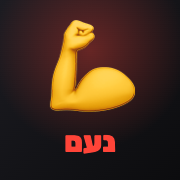
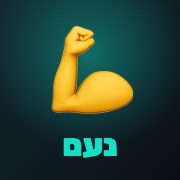
גרסה 3.0 — עיצוב טורקיז מלא לפי בקשת נעם

diff --git a/index.html b/index.html
@@ -5,7 +5,7 @@
 <meta name="viewport" content="width=device-width, initial-scale=1, viewport-fit=cover, user-scalable=no">
 <meta name="apple-mobile-web-app-capable" content="yes">
 <meta name="apple-mobile-web-app-status-bar-style" content="black-translucent">
-<meta name="theme-color" content="#0c0c0e">
+<meta name="theme-color" content="#0a0f16">
 <title>האימון של נעם</title>
 <link rel="manifest" href="manifest.json">
 <link rel="apple-touch-icon" href="icon-180.png">
@@ -16,9 +16,10 @@
 <noscript><link href="https://fonts.googleapis.com/css2?family=Rubik:wght@400;500;600;700;800;900&display=swap" rel="stylesheet"></noscript>
 <style>
 :root{
-  --bg:#0c0c0e; --card:#17171a; --card2:#1e1e23; --line:#2a2a30;
-  --txt:#f2f0ec; --dim:#8e8e96; --ghost:#5c5c64;
-  --red:#ff4438; --red-deep:#c8271c; --green:#3ddc84; --gold:#ffc93c; --purple:#b07cff; --blue:#4da3ff;
+  --bg:#0a0f16; --card:#101826; --card2:#16202f; --line:#233144;
+  --txt:#eef5f7; --dim:#8fa5b8; --ghost:#5a7186;
+  --acc:#14e0c8; --acc-deep:#0aa091; --acc-glow:rgba(20,224,200,.35);
+  --red:#ff5252; --red-deep:#d32f2f; --green:#3ddc84; --gold:#ffc93c; --purple:#b07cff; --blue:#4da3ff;
   --radius:18px;
 }
 *{margin:0;padding:0;box-sizing:border-box;-webkit-tap-highlight-color:transparent}
@@ -28,8 +29,8 @@ body{
   font-family:'Rubik',-apple-system,'Segoe UI',sans-serif;
   min-height:100vh; overscroll-behavior-y:contain;
   background-image:
-    radial-gradient(1100px 480px at 85% -180px, rgba(255,68,56,.12), transparent 60%),
-    radial-gradient(800px 400px at -10% 15%, rgba(77,163,255,.05), transparent 60%);
+    radial-gradient(1100px 480px at 85% -180px, rgba(20,224,200,.13), transparent 60%),
+    radial-gradient(900px 500px at -10% 20%, rgba(59,130,246,.09), transparent 60%);
   -webkit-font-smoothing:antialiased;
   user-select:none; -webkit-user-select:none;
 }
@@ -46,7 +47,7 @@ input,select{font-family:inherit}
 /* ===== בית ===== */
 .brand{display:flex; align-items:center; justify-content:space-between; margin-bottom:2px}
 .brand h1{font-size:1.85rem; font-weight:900; letter-spacing:-.5px}
-.brand h1 em{font-style:normal; background:linear-gradient(120deg,#ff6b54,var(--red)); -webkit-background-clip:text; background-clip:text; -webkit-text-fill-color:transparent}
+.brand h1 em{font-style:normal; background:linear-gradient(120deg,#4de8d6,var(--acc) 45%,#38bdf8); -webkit-background-clip:text; background-clip:text; -webkit-text-fill-color:transparent}
 .brand .gear{font-size:1.4rem; padding:8px; opacity:.85}
 .subhead{display:flex; justify-content:space-between; align-items:center; margin-bottom:16px}
 .today-date{color:var(--dim); font-size:.92rem}
@@ -57,21 +58,21 @@ input,select{font-family:inherit}
 #sync-chip.off{color:var(--ghost)}
 
 .hero{
-  background:linear-gradient(150deg,#221a19 0%,#1c1c20 35%,#131316 100%);
-  border:1px solid rgba(255,68,56,.22); border-radius:22px;
+  background:linear-gradient(150deg,#122a2e 0%,#12202e 40%,#0e1622 100%);
+  border:1px solid rgba(20,224,200,.28); border-radius:22px;
   padding:20px; margin-bottom:14px; position:relative; overflow:hidden;
-  box-shadow:0 10px 34px rgba(0,0,0,.35);
+  box-shadow:0 10px 34px rgba(0,0,0,.4);
 }
-.hero::before{content:""; position:absolute; inset-inline-start:-50px; top:-60px; width:220px; height:220px;
-  background:radial-gradient(circle, rgba(255,68,56,.22), transparent 70%);}
+.hero::before{content:""; position:absolute; inset-inline-start:-50px; top:-60px; width:240px; height:240px;
+  background:radial-gradient(circle, rgba(20,224,200,.22), transparent 70%);}
 .hero .label{color:var(--dim); font-size:.85rem; font-weight:500; margin-bottom:6px}
 .hero .wname{font-size:1.45rem; font-weight:800; margin-bottom:3px}
 .hero .wmeta{color:var(--dim); font-size:.88rem; margin-bottom:16px}
 .btn-main{
   display:block; width:100%; text-align:center;
-  background:linear-gradient(180deg,var(--red),var(--red-deep));
-  border-radius:14px; padding:16px; font-size:1.12rem; font-weight:800; color:#fff;
-  box-shadow:0 6px 20px rgba(255,68,56,.35); transition:transform .1s;
+  background:linear-gradient(135deg,#2ee8d2,var(--acc) 50%,#0fb9d8);
+  border-radius:14px; padding:16px; font-size:1.12rem; font-weight:800; color:#04201c;
+  box-shadow:0 6px 22px var(--acc-glow); transition:transform .1s;
 }
 .btn-main:active{transform:scale(.97)}
 .alt-workouts{display:flex; gap:8px; margin-top:10px}
@@ -85,7 +86,7 @@ input,select{font-family:inherit}
 
 .panel{background:var(--card); border:1px solid var(--line); border-radius:var(--radius); padding:16px; margin-bottom:13px}
 .panel h3{font-size:1rem; font-weight:700; margin-bottom:12px; display:flex; justify-content:space-between; align-items:center}
-.panel h3 .more{color:var(--red); font-size:.85rem; font-weight:600}
+.panel h3 .more{color:var(--acc); font-size:.85rem; font-weight:600}
 
 .quick-row{display:flex; gap:8px; margin-bottom:14px; overflow-x:auto; padding-bottom:4px; scrollbar-width:none}
 .quick-row::-webkit-scrollbar{display:none}
@@ -95,7 +96,7 @@ input,select{font-family:inherit}
 .cal{display:grid; grid-template-columns:repeat(7,1fr); gap:6px}
 .cal .dh{color:var(--ghost); font-size:.68rem; text-align:center; font-weight:500}
 .cal .d{aspect-ratio:1; display:flex; align-items:center; justify-content:center; font-size:.75rem; color:var(--dim); border-radius:9px}
-.cal .d.done{background:rgba(255,68,56,.18); color:var(--red); font-weight:700; border:1px solid rgba(255,68,56,.4)}
+.cal .d.done{background:rgba(20,224,200,.16); color:var(--acc); font-weight:700; border:1px solid rgba(20,224,200,.4)}
 .cal .d.today{outline:1.5px solid var(--txt); outline-offset:-1.5px; font-weight:700; color:var(--txt)}
 .cal .d.off{opacity:.25}
 
@@ -118,17 +119,17 @@ input,select{font-family:inherit}
 }
 .wtop .wt-name{font-weight:800; font-size:1rem}
 .wtop .wt-meta{color:var(--dim); font-size:.8rem; margin-top:1px}
-.wtop .finish{background:var(--red); color:#fff; font-weight:700; font-size:.9rem; padding:10px 16px; border-radius:12px}
+.wtop .finish{background:linear-gradient(135deg,#2ee8d2,var(--acc)); color:#04201c; font-weight:700; font-size:.9rem; padding:10px 16px; border-radius:12px}
 .wtop .quit{color:var(--dim); font-size:1.3rem; padding:6px 10px 6px 0}
 
 .excard{background:var(--card); border:1px solid var(--line); border-radius:var(--radius); padding:15px 13px; margin-bottom:13px}
-.excard.done-all{border-color:rgba(61,220,132,.35)}
+.excard.done-all{border-color:rgba(20,224,200,.35)}
 .exhead{display:flex; justify-content:space-between; align-items:flex-start; margin-bottom:2px}
 .exname{font-weight:700; font-size:1.02rem; line-height:1.3}
 .extarget{color:var(--dim); font-size:.8rem; margin-top:3px}
 .exlast{color:var(--ghost); font-size:.78rem; margin-top:2px}
 .excoach{color:var(--blue); font-size:.78rem; margin-top:2px}
-.target-chip{display:inline-block; background:rgba(61,220,132,.12); border:1px solid rgba(61,220,132,.35); color:var(--green);
+.target-chip{display:inline-block; background:rgba(20,224,200,.12); border:1px solid rgba(20,224,200,.35); color:var(--acc);
   font-size:.78rem; font-weight:700; border-radius:9px; padding:3px 9px; margin-top:6px}
 .target-chip.beat{background:rgba(255,201,60,.1); border-color:rgba(255,201,60,.3); color:var(--gold)}
 .exbtns{display:flex; gap:2px}
@@ -150,7 +151,7 @@ input,select{font-family:inherit}
 .stepper button:active{background:rgba(255,255,255,.06); color:var(--txt)}
 .stepper input{flex:1; width:100%; min-width:0; background:none; border:none; color:var(--txt); font-size:16px; font-weight:700; text-align:center; outline:none; padding:0; font-variant-numeric:tabular-nums}
 .chk{width:48px; height:46px; border-radius:12px; background:var(--card2); border:1px solid var(--line); font-size:1.2rem; color:var(--ghost); display:flex; align-items:center; justify-content:center; transition:all .15s; margin:0 auto}
-.chk.on{background:var(--green); border-color:var(--green); color:#08120c; box-shadow:0 0 14px rgba(61,220,132,.4)}
+.chk.on{background:var(--acc); border-color:var(--acc); color:#04201c; box-shadow:0 0 14px var(--acc-glow)}
 .addset{color:var(--dim); font-size:.85rem; font-weight:600; padding:9px 4px 2px; display:inline-block}
 .addset + .addset{margin-inline-start:14px}
 .type-hint{color:var(--ghost); font-size:.7rem; margin-top:8px}
@@ -173,15 +174,15 @@ input,select{font-family:inherit}
 #restbar .rt-label{font-size:.75rem; color:var(--dim); font-weight:500}
 #resttime{font-size:2.1rem; font-weight:900; letter-spacing:1px; line-height:1}
 #restbar .rt-btn{background:var(--card2); border:1px solid var(--line); border-radius:12px; padding:12px 13px; font-size:.9rem; font-weight:700; color:var(--txt); min-width:54px}
-#restbar .rt-skip{color:var(--red); font-weight:700; font-size:.9rem; padding:12px 4px}
+#restbar .rt-skip{color:var(--acc); font-weight:700; font-size:.9rem; padding:12px 4px}
 
 /* ===== ניווט משני ===== */
 .back-row{display:flex; align-items:center; gap:8px; margin-bottom:14px}
-.back-row button{color:var(--red); font-size:1rem; font-weight:600; padding:6px 0 6px 10px}
+.back-row button{color:var(--acc); font-size:1rem; font-weight:600; padding:6px 0 6px 10px}
 .back-row h2{font-size:1.25rem; font-weight:800}
 .tabs{display:flex; gap:6px; margin-bottom:14px; overflow-x:auto; padding-bottom:2px}
 .tabs button{flex-shrink:0; background:var(--card2); border:1px solid var(--line); border-radius:20px; padding:8px 14px; font-size:.83rem; font-weight:600; color:var(--dim)}
-.tabs button.act{background:var(--red); border-color:var(--red); color:#fff}
+.tabs button.act{background:var(--acc); border-color:var(--acc); color:#04201c}
 
 .exlist button{display:flex; width:100%; justify-content:space-between; align-items:center; padding:14px 4px; border-bottom:1px solid var(--line); text-align:start; font-size:.93rem; font-weight:600}
 .exlist button:last-child{border-bottom:none}
@@ -190,10 +191,10 @@ input,select{font-family:inherit}
 .chart-title{font-size:.85rem; color:var(--dim); margin:0 10px 8px}
 .metric-tabs{display:flex; gap:6px; margin:0 8px 10px}
 .metric-tabs button{background:var(--card2); border:1px solid var(--line); border-radius:16px; padding:6px 12px; font-size:.75rem; font-weight:600; color:var(--dim)}
-.metric-tabs button.act{background:rgba(255,68,56,.15); border-color:var(--red); color:var(--red)}
+.metric-tabs button.act{background:rgba(20,224,200,.14); border-color:var(--acc); color:var(--acc)}
 .sess{background:var(--card); border:1px solid var(--line); border-radius:14px; padding:12px 14px; margin-bottom:10px}
 .sess .sdate{font-weight:700; font-size:.9rem; margin-bottom:6px; display:flex; justify-content:space-between}
-.sess .sdate button{color:var(--red); font-size:.8rem; font-weight:600}
+.sess .sdate button{color:var(--acc); font-size:.8rem; font-weight:600}
 .sess .sset{color:var(--dim); font-size:.88rem; padding:2px 0}
 .sess .sset b{color:var(--txt)}
 .sess .snote{color:var(--gold); font-size:.8rem; margin-top:6px}
@@ -206,7 +207,7 @@ input,select{font-family:inherit}
 .mus-name{display:flex; justify-content:space-between; font-size:.88rem; font-weight:600; margin-bottom:5px}
 .mus-name span{color:var(--dim); font-weight:400; font-size:.8rem}
 .mus-bar{height:14px; background:var(--card2); border-radius:7px; overflow:hidden; position:relative}
-.mus-fill{height:100%; border-radius:7px; background:linear-gradient(90deg,var(--red-deep),var(--red)); transition:width .4s}
+.mus-fill{height:100%; border-radius:7px; background:linear-gradient(90deg,#0fb9d8,var(--acc)); transition:width .4s}
 .mus-fill.good{background:linear-gradient(90deg,#1d9e5c,var(--green))}
 .band-note{color:var(--ghost); font-size:.75rem; margin-top:10px}
 
@@ -226,7 +227,7 @@ input,select{font-family:inherit}
 /* משקל גוף */
 .bw-add{display:flex; gap:8px; margin-bottom:14px}
 .bw-add input{flex:1; background:var(--card2); border:1px solid var(--line); border-radius:12px; color:var(--txt); font-size:16px; font-weight:700; text-align:center; padding:12px; outline:none}
-.bw-add button{background:var(--red); color:#fff; border-radius:12px; padding:12px 20px; font-weight:700}
+.bw-add button{background:linear-gradient(135deg,#2ee8d2,var(--acc)); color:#04201c; border-radius:12px; padding:12px 20px; font-weight:700}
 
 /* ===== הגדרות ===== */
 .set-item{display:flex; justify-content:space-between; align-items:center; padding:13px 2px; border-bottom:1px solid var(--line); font-size:.93rem; gap:10px}
@@ -236,7 +237,7 @@ input,select{font-family:inherit}
 .pill.red{color:var(--red)}
 .toggle{width:52px; height:30px; border-radius:15px; background:var(--card2); border:1px solid var(--line); position:relative; transition:.2s; flex-shrink:0}
 .toggle::after{content:""; position:absolute; top:2px; inset-inline-start:3px; width:24px; height:24px; border-radius:50%; background:var(--dim); transition:.2s}
-.toggle.on{background:var(--red)}
+.toggle.on{background:var(--acc)}
 .toggle.on::after{background:#fff; transform:translateX(-21px)}
 .sync-inp{width:100%; background:var(--card2); border:1px solid var(--line); border-radius:10px; color:var(--txt); font-size:16px; padding:11px; margin-top:8px; outline:none; direction:ltr; text-align:left}
 
@@ -275,7 +276,7 @@ input,select{font-family:inherit}
 .plate-info b{color:var(--txt); font-size:1.2rem}
 .plate-opts{display:flex; gap:8px; justify-content:center; margin-top:10px}
 .plate-opts button{background:var(--card2); border:1px solid var(--line); border-radius:10px; padding:8px 14px; font-size:.83rem; font-weight:600; color:var(--dim)}
-.plate-opts button.act{color:var(--red); border-color:var(--red)}
+.plate-opts button.act{color:var(--acc); border-color:var(--acc)}
 
 #toast{position:fixed; top:calc(env(safe-area-inset-top) + 14px); inset-inline:16px; z-index:70;
   background:var(--card2); border:1px solid var(--gold); color:var(--gold);
@@ -298,7 +299,7 @@ svg text{font-family:'Rubik',sans-serif}
   <div class="subhead">
     <div class="today-date" id="home-date"></div>
     <div style="display:flex; gap:6px; align-items:center">
-      <span style="color:var(--ghost); font-size:.68rem">v2.1</span>
+      <span style="color:var(--ghost); font-size:.68rem">v3.0</span>
       <button id="sync-chip" onclick="manualSync()">—</button>
     </div>
   </div>
@@ -343,7 +344,7 @@ svg text{font-family:'Rubik',sans-serif}
     <button class="quit" onclick="confirmQuit()">✕</button>
     <div style="text-align:center">
       <div class="wt-name" id="w-title"></div>
-      <div class="wt-meta"><span class="num" id="w-clock">0:00</span> · <span id="w-sets">0 סטים</span><span id="top-rest" style="color:var(--red); font-weight:700"></span></div>
+      <div class="wt-meta"><span class="num" id="w-clock">0:00</span> · <span id="w-sets">0 סטים</span><span id="top-rest" style="color:var(--acc); font-weight:700"></span></div>
     </div>
     <button class="finish" onclick="finishWorkout()">סיום</button>
   </div>
@@ -467,7 +468,7 @@ svg text{font-family:'Rubik',sans-serif}
     </div>
   </div>
   <div style="color:var(--ghost); font-size:.75rem; text-align:center; margin-top:6px">
-    תוכנית: ברוך שייש · הגרסה 2.0 · נבנה עם קלוד 🤖
+    תוכנית: ברוך שייש · גרסה 3.0 טורקיז · נבנה עם קלוד 🤖
   </div>
 </div>
 
@@ -488,7 +489,7 @@ svg text{font-family:'Rubik',sans-serif}
 
 <script>
 /* ================= קבועים ================= */
-const APP_VER='2.1';
+const APP_VER='3.0';
 const KEY='noam-gym-v2', OLDKEY='noam-gym-v1';
 let clockOfs=0; /* פער מול שעון השרת — מוגדר כאן כדי שיהיה זמין מהרגע הראשון */
 /* כל שגיאה מוצגת — כדי שנוכל לאתר תקלות בטלפון */
@@ -1173,12 +1174,12 @@ function chartSvg(pts){
   const show=pts.length<=8?pts.map((p,i)=>i):pts.map((p,i)=>i).filter(i=>i%Math.ceil(pts.length/8)===0||i===pts.length-1);
   return `<svg viewBox="0 0 ${CW} ${CH}" style="width:100%;direction:ltr">
     <defs><linearGradient id="g" x1="0" y1="0" x2="0" y2="1">
-      <stop offset="0" stop-color="#ff4438" stop-opacity=".3"/><stop offset="1" stop-color="#ff4438" stop-opacity="0"/>
+      <stop offset="0" stop-color="#14e0c8" stop-opacity=".3"/><stop offset="1" stop-color="#14e0c8" stop-opacity="0"/>
     </linearGradient></defs>
     ${pts.length>1?`<path d="${path} L${x(pts.length-1)},${CH-P} L${x(0)},${CH-P} Z" fill="url(#g)"/>`:''}
-    <path d="${path}" fill="none" stroke="#ff4438" stroke-width="3" stroke-linecap="round" stroke-linejoin="round"/>
+    <path d="${path}" fill="none" stroke="#14e0c8" stroke-width="3" stroke-linecap="round" stroke-linejoin="round"/>
     ${pts.map((p,i)=>`
-      <circle cx="${x(i)}" cy="${y(p.val)}" r="4.5" fill="#ff4438" stroke="#0c0c0e" stroke-width="2"/>
+      <circle cx="${x(i)}" cy="${y(p.val)}" r="4.5" fill="#14e0c8" stroke="#0a0f16" stroke-width="2"/>
       ${show.includes(i)?`<text x="${x(i)}" y="${y(p.val)-12}" text-anchor="middle" fill="#f2f0ec" font-size="13" font-weight="700">${p.val}</text>
       <text x="${x(i)}" y="${CH-10}" text-anchor="middle" fill="#8e8e96" font-size="11">${shortDate(p.date)}</text>`:''}`).join('')}
   </svg>`;
@@ -1337,12 +1338,12 @@ async function shareCard(rid){
   const c=cv.getContext('2d');
   /* רקע */
   const grd=c.createLinearGradient(0,0,0,1400);
-  grd.addColorStop(0,'#1a1a1f'); grd.addColorStop(1,'#0c0c0e');
+  grd.addColorStop(0,'#101d29'); grd.addColorStop(1,'#0a0f16');
   c.fillStyle=grd; c.fillRect(0,0,1000,1400);
-  c.fillStyle='rgba(255,68,56,.09)';
+  c.fillStyle='rgba(20,224,200,.09)';
   c.beginPath(); c.arc(500,80,330,0,7); c.fill();
   c.direction='rtl'; c.textAlign='center';
-  c.fillStyle='#ff4438'; c.font='900 44px Rubik, sans-serif';
+  c.fillStyle='#14e0c8'; c.font='900 44px Rubik, sans-serif';
   c.fillText('האימון של נעם 💪', 500, 110);
   c.fillStyle='#f2f0ec'; c.font='800 58px Rubik, sans-serif';
   c.fillText(p?p.name:'אימון', 500, 195);
@@ -1367,7 +1368,7 @@ async function shareCard(rid){
     if(name!==e.n) name=name+'…';
     c.fillText(name, 920, y);
     const setsTxt=e.sets.filter(s=>s.t!=='W').map(s=>`${s.w}×${s.r}`).join('   ');
-    c.font='700 26px Rubik, sans-serif'; c.fillStyle='#ff4438'; c.direction='ltr'; c.textAlign='left';
+    c.font='700 26px Rubik, sans-serif'; c.fillStyle='#14e0c8'; c.direction='ltr'; c.textAlign='left';
     let st=setsTxt;
     while(c.measureText(st).width>840&&st.length>3) st=st.slice(0,-2);
     c.fillText(st, 80, y+36);

diff --git a/sw.js b/sw.js
@@ -1,5 +1,5 @@
 /* Service Worker — האפליקציה נפתחת גם בלי אינטרנט בחדר כושר */
-const CACHE = 'noam-gym-v1';
+const CACHE = 'noam-gym-v3';
 const CORE = ['./', './index.html', './manifest.json', './icon-180.png', './icon-512.png'];
 
 self.addEventListener('install', e => {
